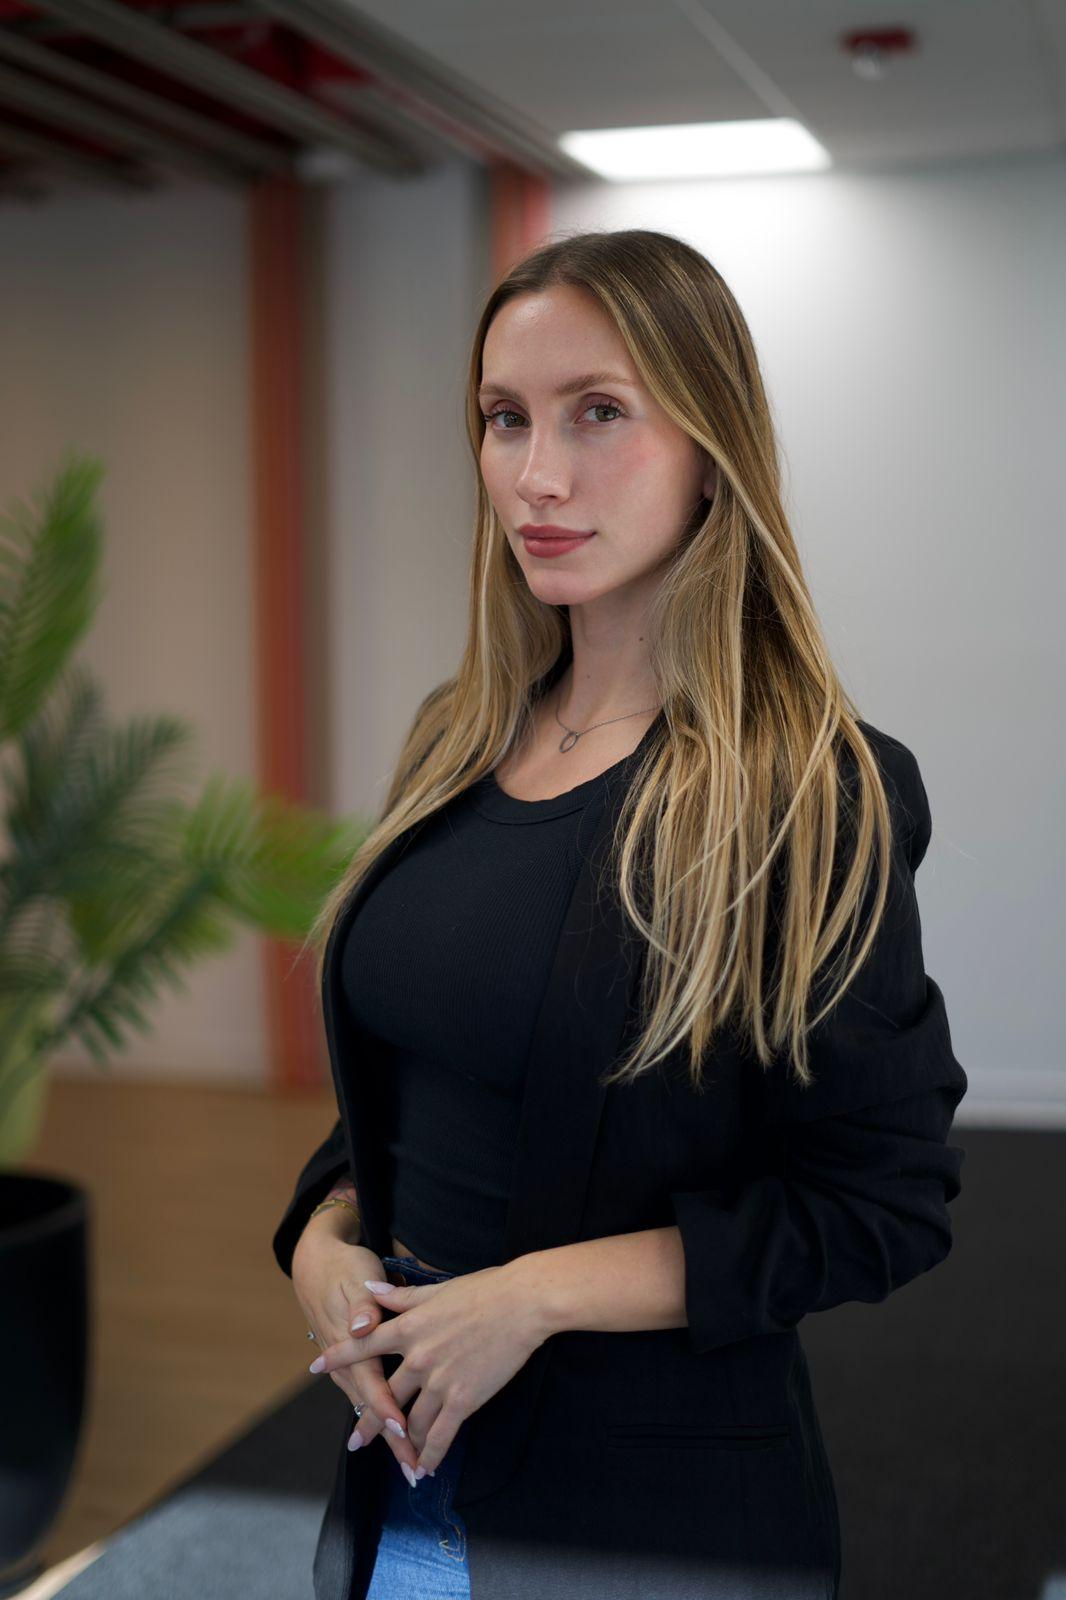
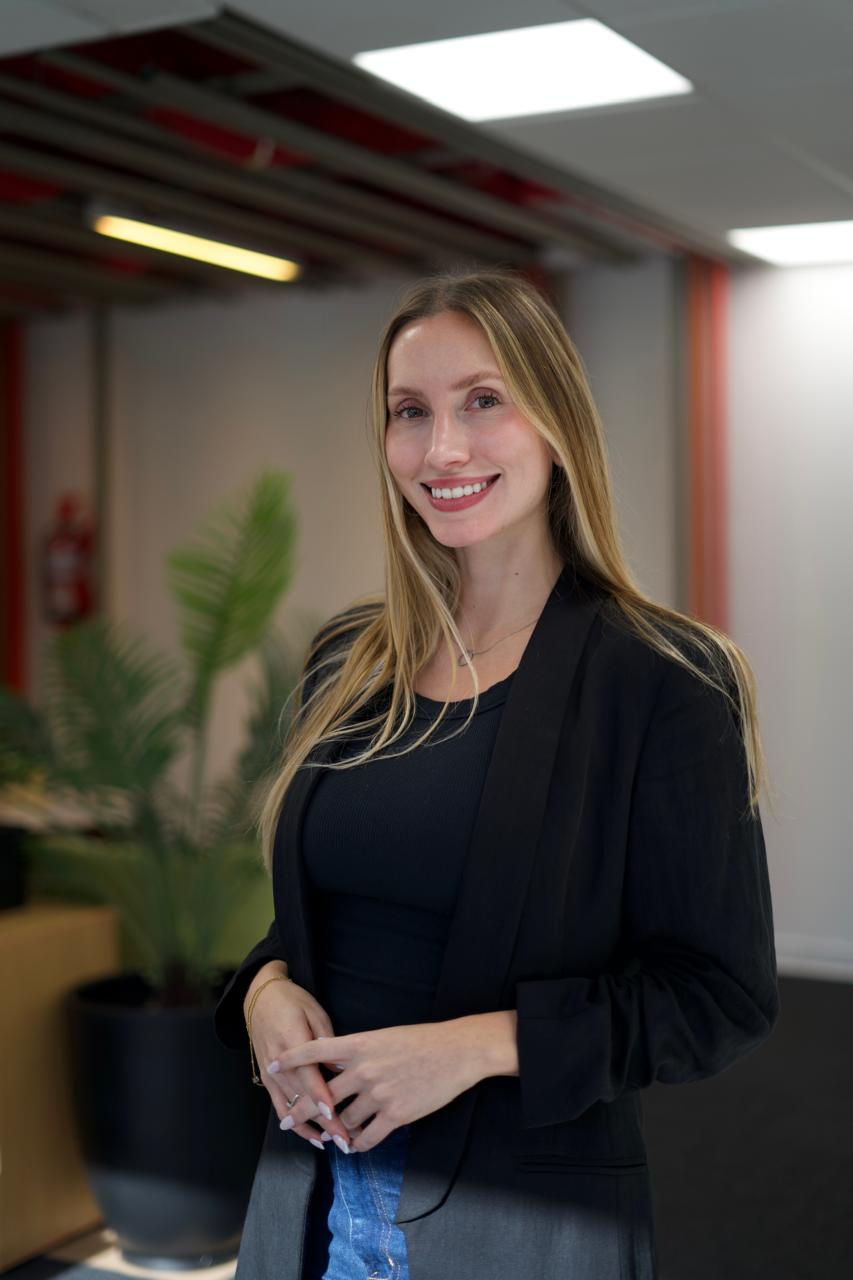
Foto de Sobre mí, orden de servicios y datos de contacto
- Reemplaza la foto de "Sobre mí" por la nueva foto profesional
- Reordena los servicios: Defensa penal, Cripto & blockchain,
  Contratos & NDAs, Abogada externa, Compliance, Investigaciones
- Corrige el email de contacto a contacto@malenaconde.com y el link
  de LinkedIn al perfil real (sin parámetros de tracking), tanto en
  la sección de contacto como en el footer

diff --git a/index.html b/index.html
@@ -383,18 +383,18 @@
     <div class="servicios-grid">
       <div class="servicio-card">
         <div class="serv-num">01</div>
-        <h3>Contratos & NDAs</h3>
-        <p>Redacción, revisión y negociación de contratos comerciales, acuerdos de confidencialidad, partnerships, referral agreements, equity y vesting.</p>
-      </div>
-      <div class="servicio-card">
-        <div class="serv-num">02</div>
         <h3>Defensa penal</h3>
         <p>Representación en causas penales, defensa técnica y querella. Especialización en estafas, delitos económicos, cibernéticos y apropiación indebida.</p>
       </div>
       <div class="servicio-card">
-        <div class="serv-num">03</div>
+        <div class="serv-num">02</div>
         <h3>Asesoramiento cripto & blockchain</h3>
         <p>Compliance ante la CNV, análisis regulatorio bajo RG 1069/2025, contratos cripto y estructuración legal de proyectos Web3, DeFi y tokenización.</p>
+      </div>
+      <div class="servicio-card">
+        <div class="serv-num">03</div>
+        <h3>Contratos & NDAs</h3>
+        <p>Redacción, revisión y negociación de contratos comerciales, acuerdos de confidencialidad, partnerships, referral agreements, equity y vesting.</p>
       </div>
       <div class="servicio-card">
         <div class="serv-num">04</div>
@@ -565,7 +565,7 @@
       <div class="contacto-datos">
         <div class="contacto-dato">
           <span class="dato-icon">✉</span>
-          <span class="dato-text"><a href="mailto:malenaconde.legaltech@gmail.com">malenaconde.legaltech@gmail.com</a></span>
+          <span class="dato-text"><a href="mailto:contacto@malenaconde.com">contacto@malenaconde.com</a></span>
         </div>
         <div class="contacto-dato">
           <span class="dato-icon">📱</span>
@@ -577,7 +577,7 @@
         </div>
         <div class="contacto-dato">
           <span class="dato-icon">🔗</span>
-          <span class="dato-text"><a href="https://www.linkedin.com/in/malena-conde" target="_blank">linkedin.com/in/malena-conde</a></span>
+          <span class="dato-text"><a href="https://www.linkedin.com/in/malena-conde-84715b198/" target="_blank">linkedin.com/in/malena-conde-84715b198</a></span>
         </div>
       </div>
     </div>
@@ -638,8 +638,8 @@
     <div class="footer-bottom">
       <p class="footer-copy">© 2026 Malena Conde · CPACF T°155 F°526 · CABA, Argentina</p>
       <div class="footer-links">
-        <a href="https://www.linkedin.com/in/malena-conde" target="_blank" rel="noopener">LinkedIn</a>
-        <a href="mailto:malenaconde.legaltech@gmail.com">Email</a>
+        <a href="https://www.linkedin.com/in/malena-conde-84715b198/" target="_blank" rel="noopener">LinkedIn</a>
+        <a href="mailto:contacto@malenaconde.com">Email</a>
         <a href="https://wa.me/5491136779004" target="_blank" rel="noopener">WhatsApp</a>
       </div>
     </div>
